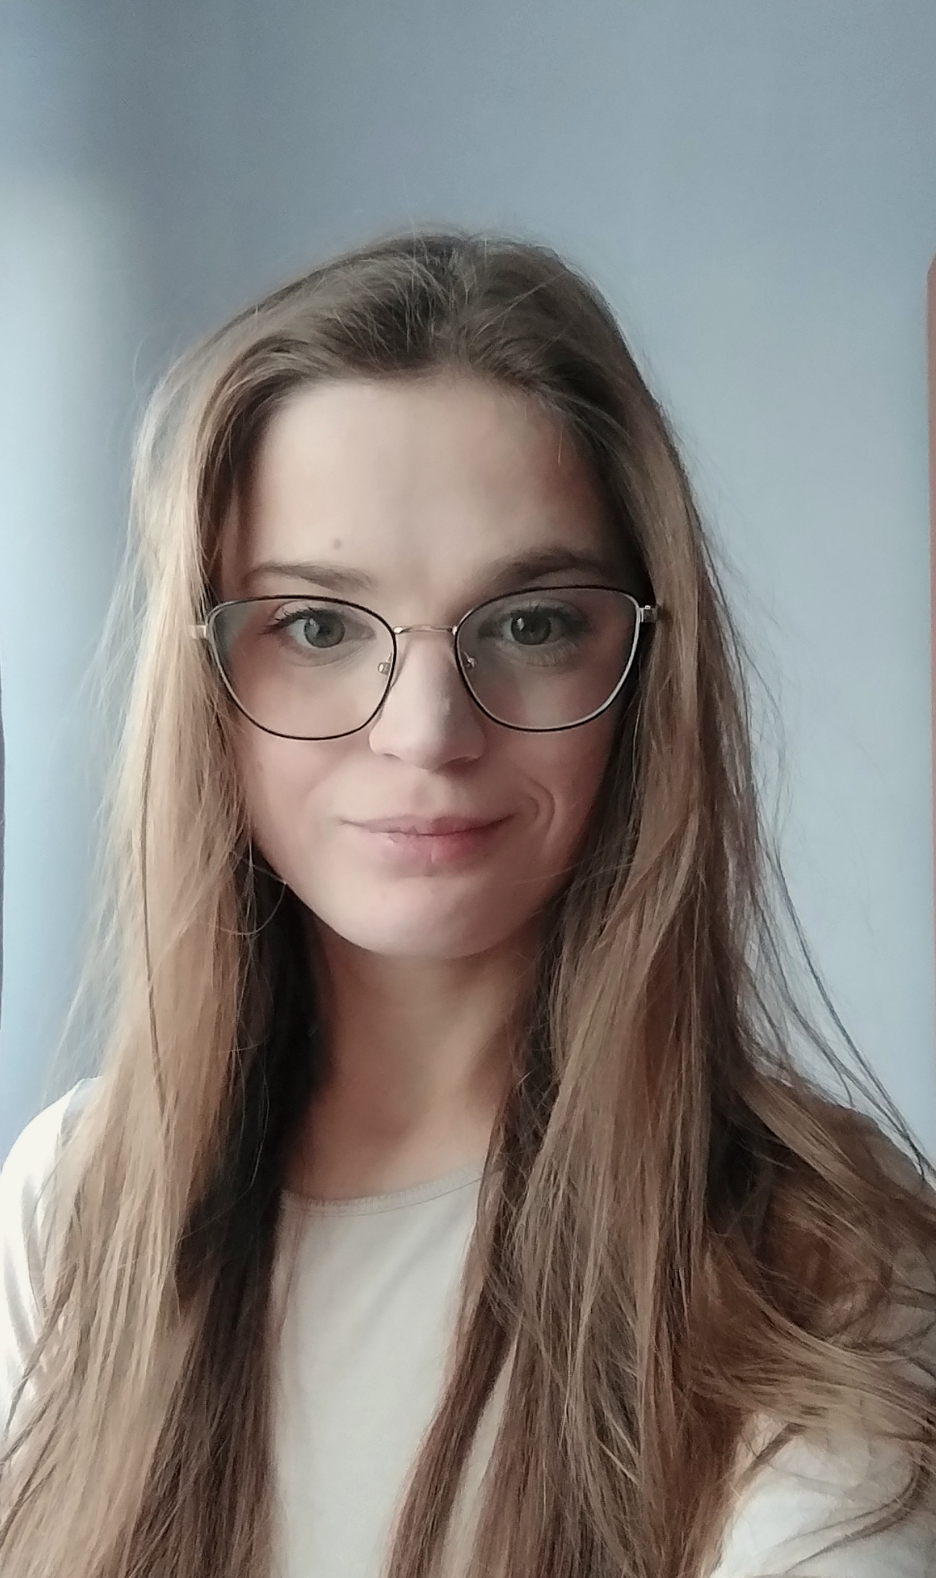
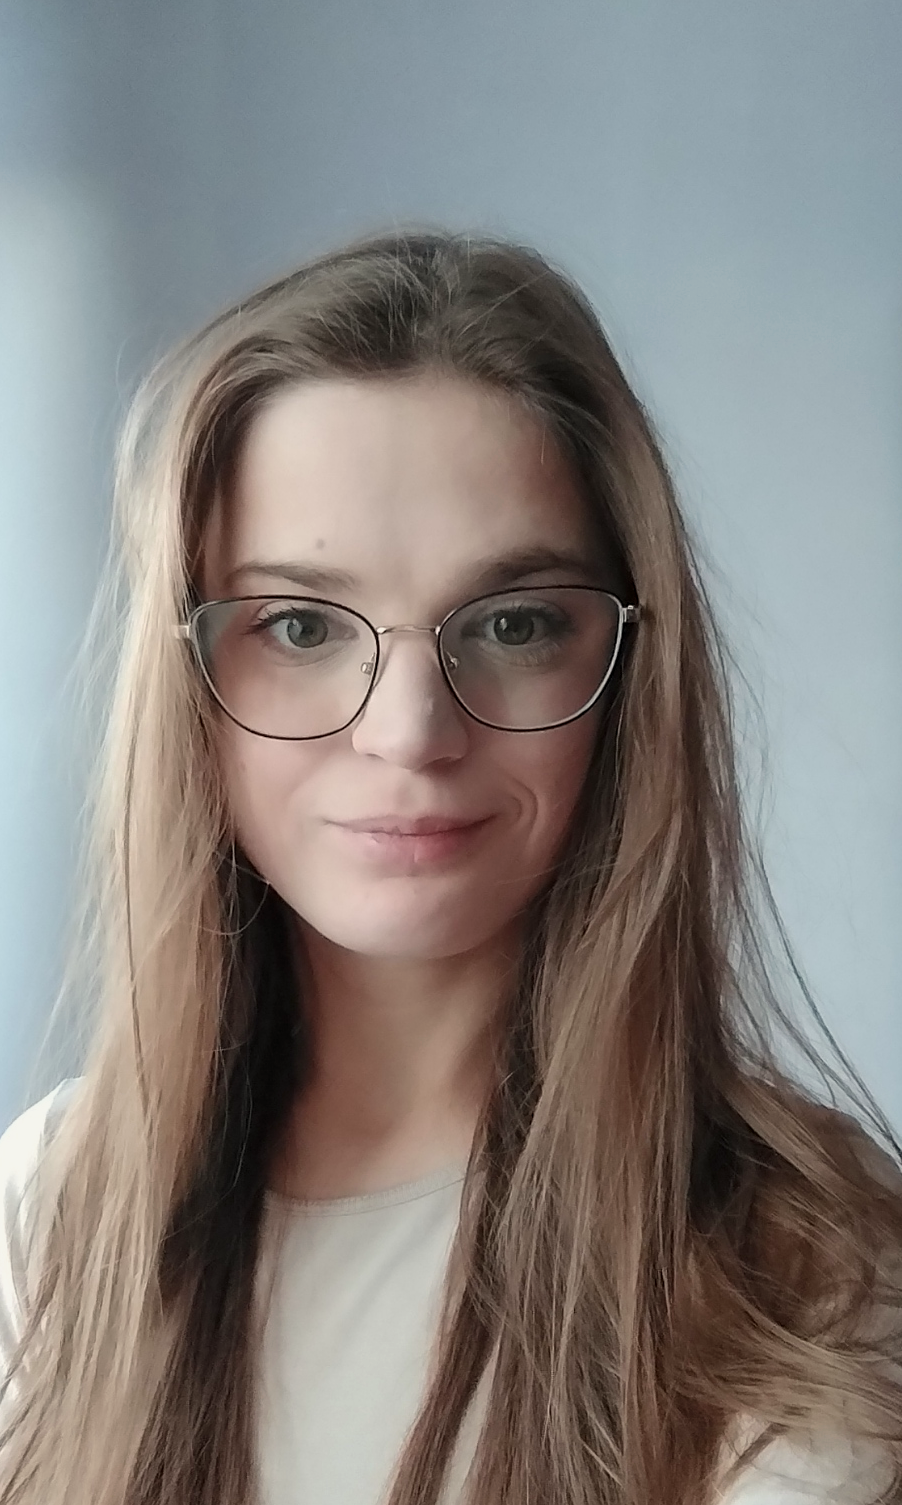
photo changed

diff --git a/styles.css b/styles.css
@@ -36,12 +36,11 @@ body {
 }
 
 .my-photo {
-    width: 300px;
-    height: 300px;
+    width: 330px;
+    height: 400px;
     object-fit: cover;
-    border-radius: 100%;
+    border-radius: 50px;
     margin: 60px 0px 0px 0px;
-    align-self: center;
 }
 
 .left-side h2{
@@ -120,3 +119,11 @@ body {
         font-size: 50px;
     }
 }
+
+@media screen and (max-width:1000px) {
+    .my-photo{
+        align-self: center;
+    }
+}
+
+
